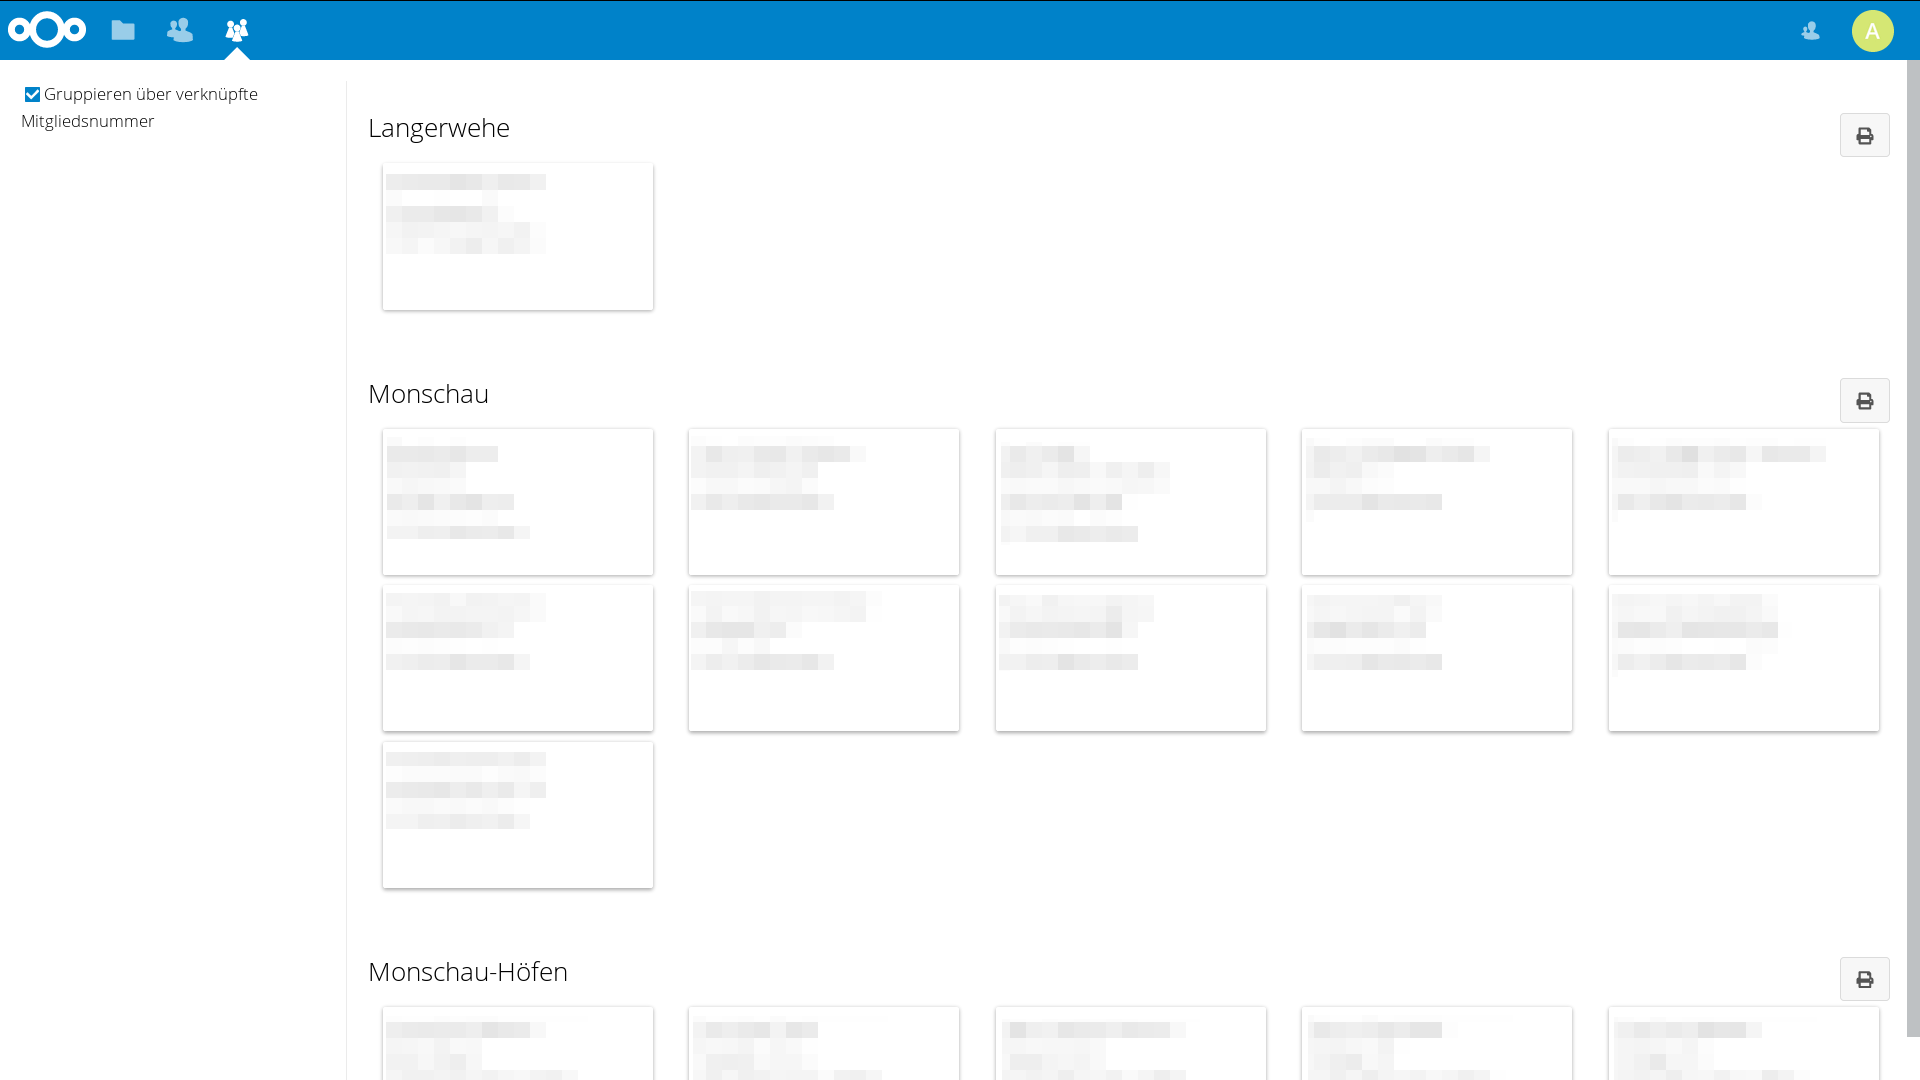
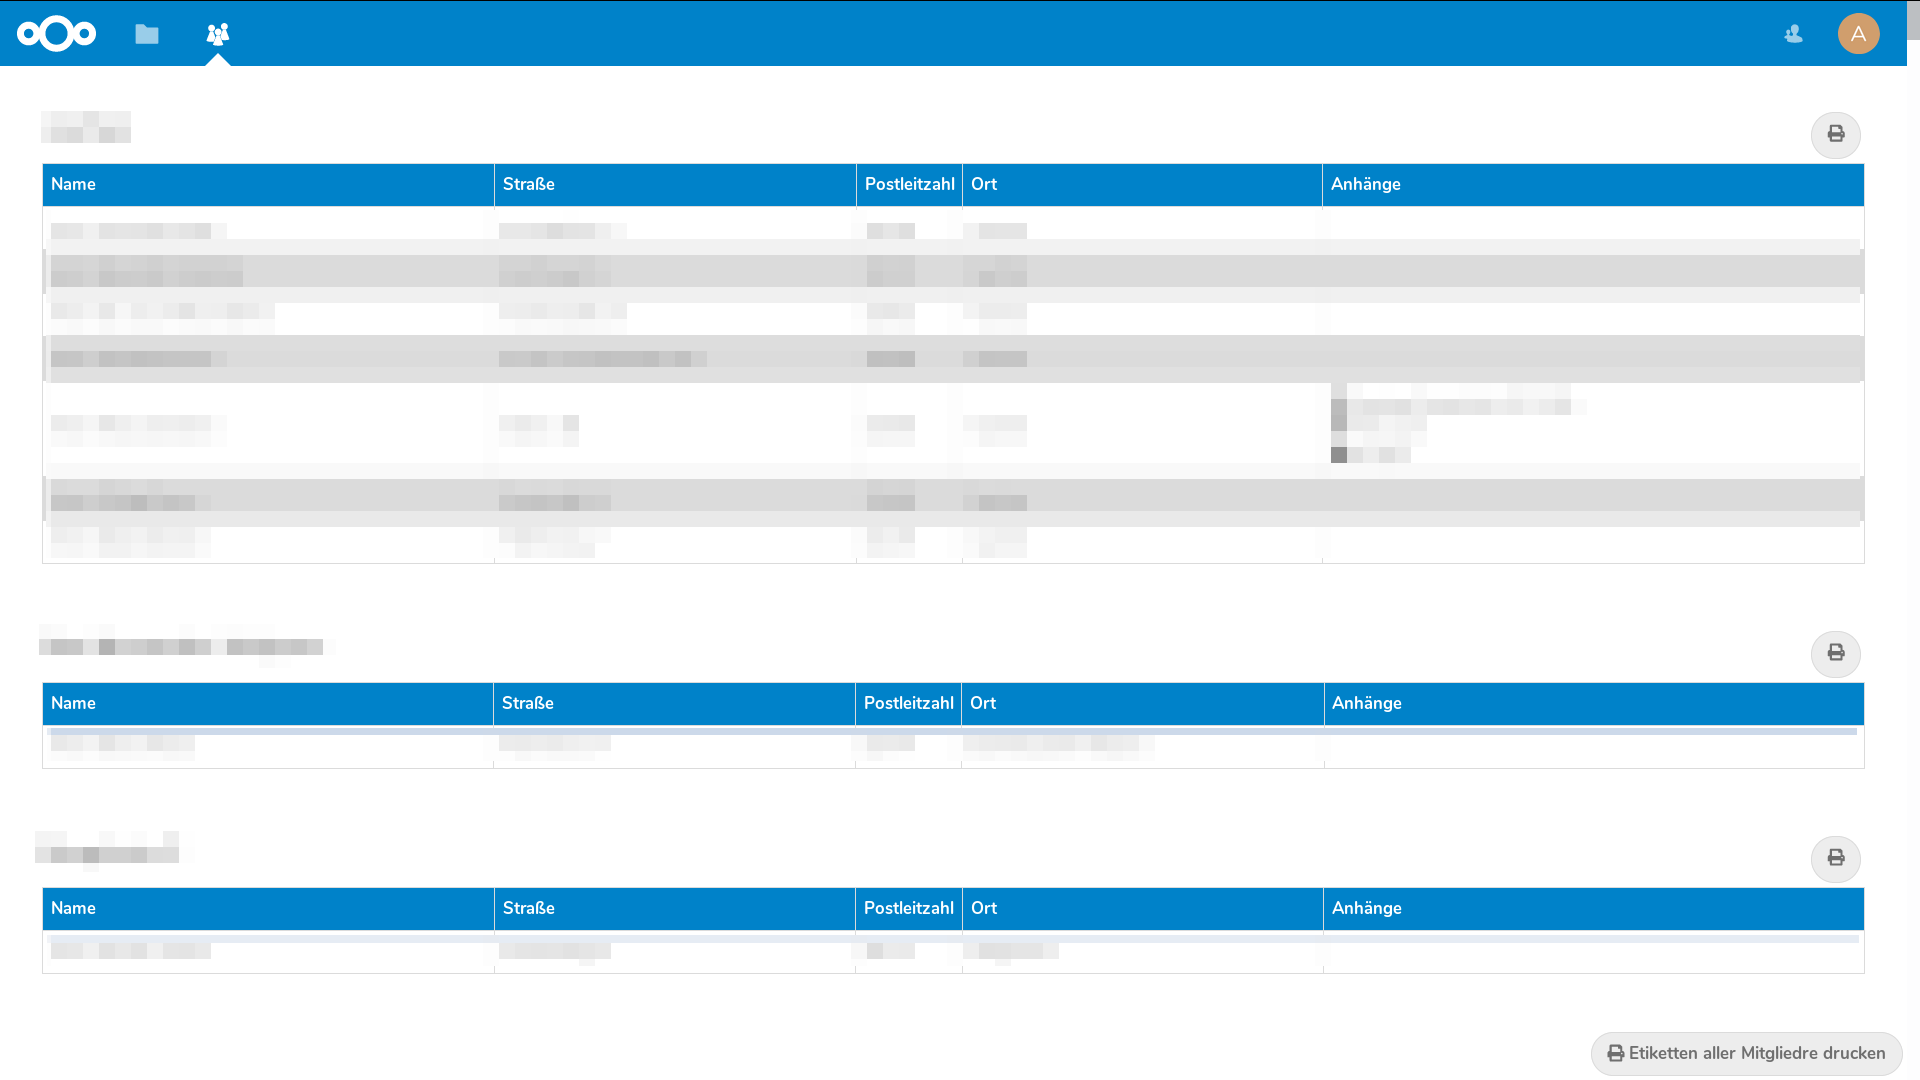
Update screenshots and readme

Changed region(s): [[0.0, 0.0, 1.0, 1.0], [0.7188, 0.9472, 0.75, 0.9778], [0.25, 0.9472, 0.2812, 0.9778]]

diff --git a/README.md b/README.md
@@ -1,3 +1,4 @@
+[![Build Status](https://gitlab.com/schrieveslaach/nextcloud-spgverein-app/badges/master/build.svg)](https://gitlab.com/schrieveslaach/nextcloud-spgverein-app/pipelines)
 [![Quality Gate](https://sonarcloud.io/api/project_badges/measure?project=de.schrieveslaach.nextcloud.spgverein&metric=alert_status)](https://sonarcloud.io/dashboard?id=de.schrieveslaach.nextcloud.spgverein)
 [![Download](https://img.shields.io/badge/download-spgverein.tar.gz-blue.svg)](https://gitlab.com/schrieveslaach/nextcloud-spgverein-app/-/jobs/artifacts/master/raw/spgverein.tar.gz?job=package)
 
@@ -13,8 +14,10 @@
 
 ![Screenshot SPG Verein](assets/screenshot-01.png)
 
+![Screenshot SPG Verein](assets/screenshot-02.png)
+
 ## Installation
 
-Place this app in **nextcloud/apps/**
+[Download](https://gitlab.com/schrieveslaach/nextcloud-spgverein-app/-/jobs/artifacts/master/raw/spgverein.tar.gz?job=package) and place this app in `nextcloud/apps/` and extract with `tar xvf`.
 
 
